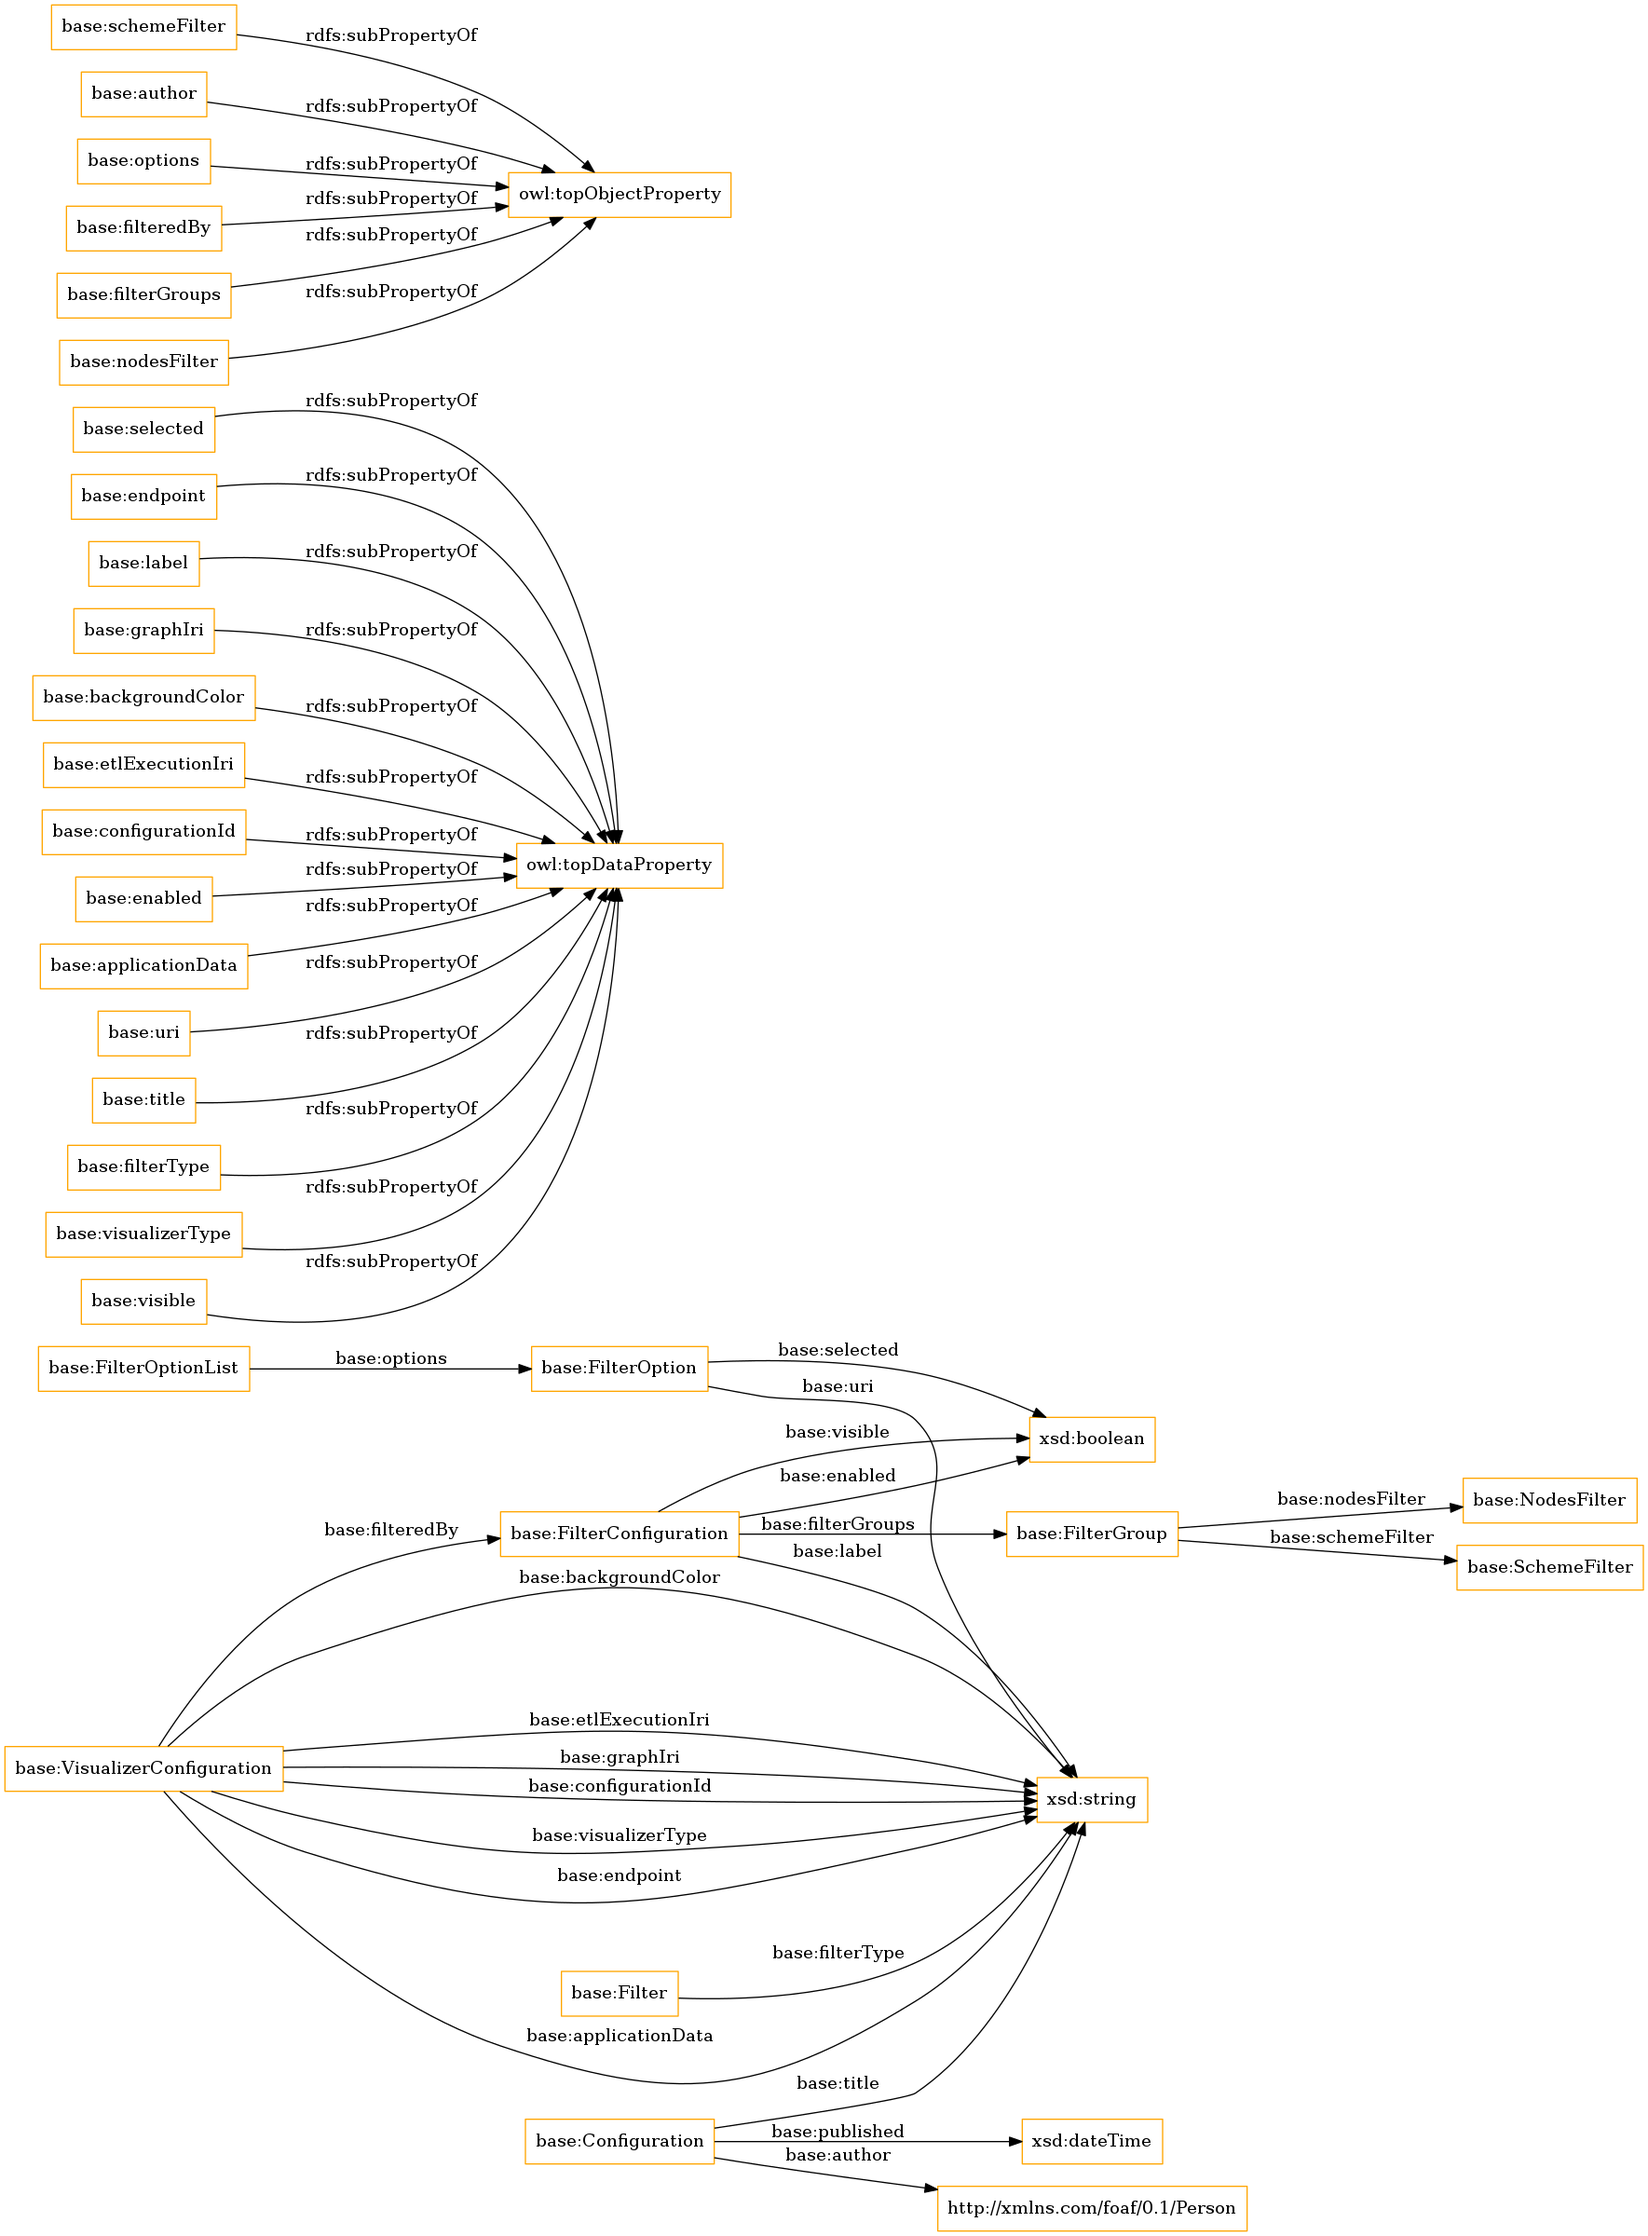
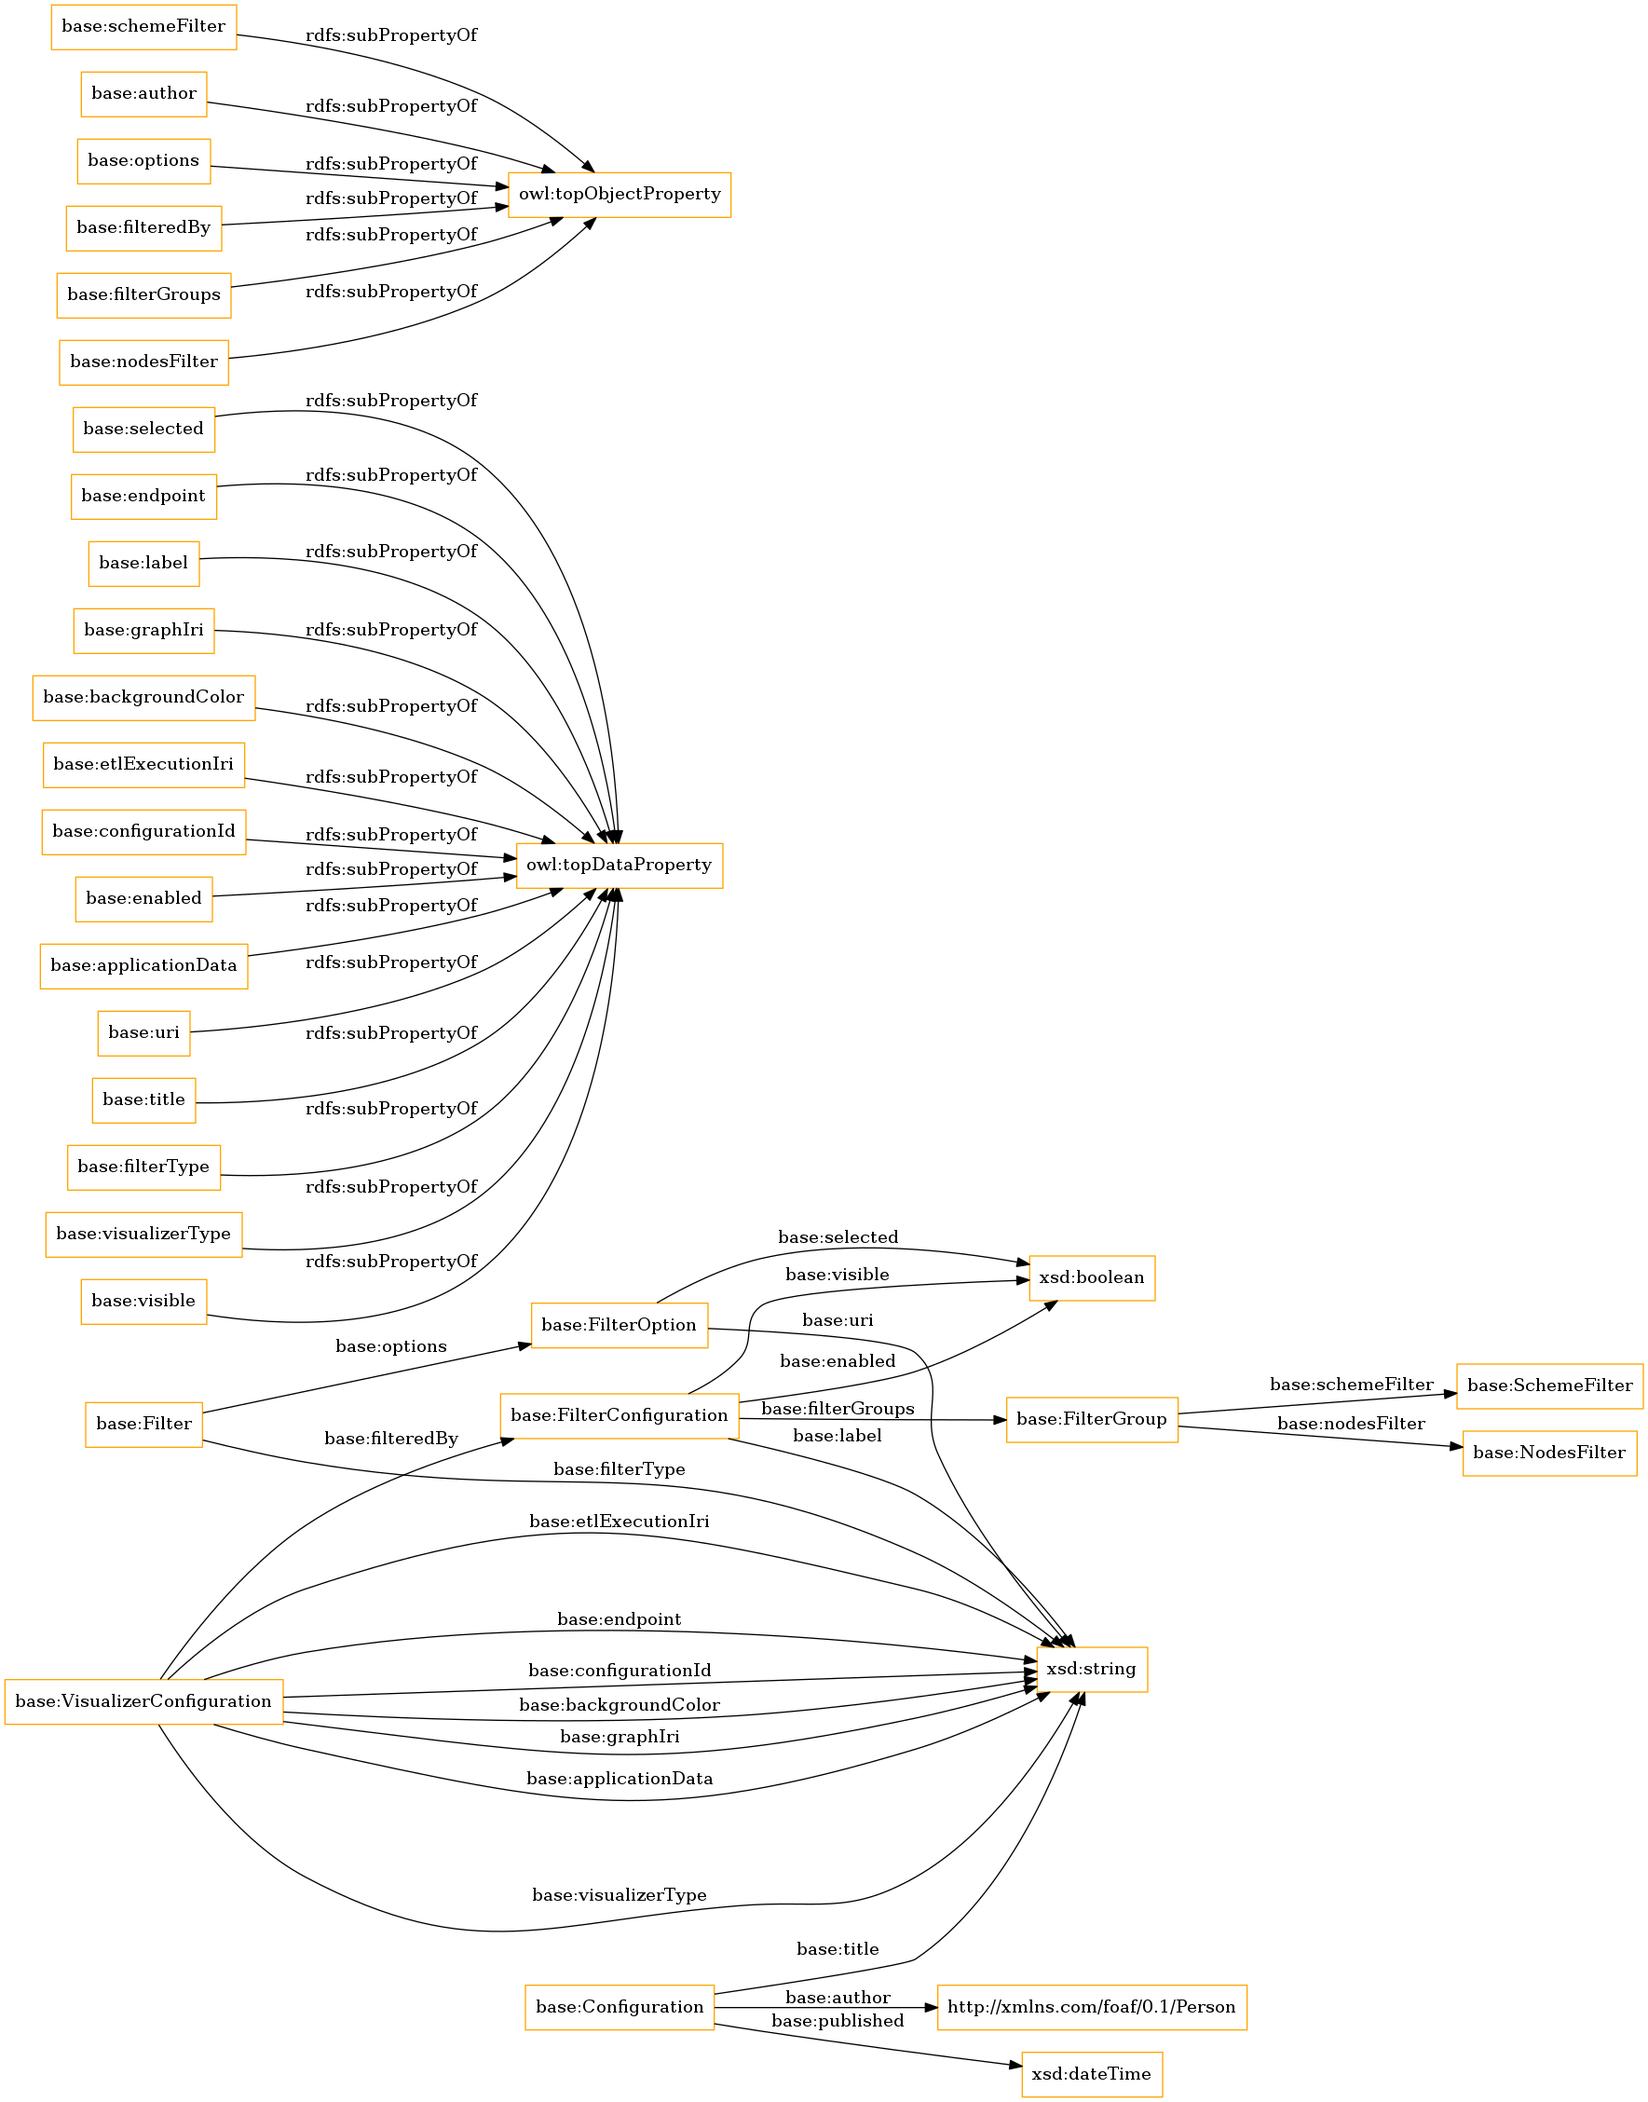
automated change

diff --git a/OnToology/lpapps.owl/evaluation/oops.html b/OnToology/lpapps.owl/evaluation/oops.html
@@ -117,10 +117,24 @@ table.tablesorter thead tr .headerSortDown {
     <div class="panel-heading">
     <h4 class="panel-title">
     <a data-toggle="collapse" href="#collapse0">
-    "P13". "Inverse relationships not explicitly declared"<span style="float: right;">"6" cases detected. <span class="label label-minor">"Minor"</span></span></a>
+    "P08". "Missing annotations"<span style="float: right;">"30" cases detected. <span class="label label-minor">"Minor"</span></span></a>
     </h4>
     </div>
     <div id="collapse0" class="panel-collapse collapse">
+    <div class="panel-body">
+    <p>"This pitfall consists in creating an ontology element and failing to provide human readable annotations attached to it. Consequently, ontology elements lack annotation properties that label them (e.g. rdfs:label, lemon:LexicalEntry, skos:prefLabel or skos:altLabel) or that define them (e.g. rdfs:comment or dc:description). This pitfall is related to the guidelines provided in [5].\t"</p>
+    </div>
+    </div>
+    </div>
+    
+    <div class="panel panel-default">
+    <div class="panel-heading">
+    <h4 class="panel-title">
+    <a data-toggle="collapse" href="#collapse1">
+    "P13". "Inverse relationships not explicitly declared"<span style="float: right;">"6" cases detected. <span class="label label-minor">"Minor"</span></span></a>
+    </h4>
+    </div>
+    <div id="collapse1" class="panel-collapse collapse">
     <div class="panel-body">
     <p>"This pitfall appears when any relationship (except for those that are defined as symmetric properties using owl:SymmetricProperty) does not have an inverse relationship (owl:inverseOf) defined within the ontology.\t"</p>
     </div>
@@ -130,27 +144,13 @@ table.tablesorter thead tr .headerSortDown {
     <div class="panel panel-default">
     <div class="panel-heading">
     <h4 class="panel-title">
-    <a data-toggle="collapse" href="#collapse1">
-    "P10". "Missing disjointness"<span style="float: right;">"1" cases detected. <span class="label label-warning">"Important"</span></span></a>
-    </h4>
-    </div>
-    <div id="collapse1" class="panel-collapse collapse">
-    <div class="panel-body">
-    <p>"The ontology lacks disjoint axioms between classes or between properties that should be defined as disjoint. This pitfall is related with the guidelines provided in [6], [2] and [7].\t"</p>
-    </div>
-    </div>
-    </div>
-    
-    <div class="panel panel-default">
-    <div class="panel-heading">
-    <h4 class="panel-title">
     <a data-toggle="collapse" href="#collapse2">
-    "P08". "Missing annotations"<span style="float: right;">"31" cases detected. <span class="label label-minor">"Minor"</span></span></a>
+    "P10". "Missing disjointness"<span style="float: right;">"1" cases detected. <span class="label label-warning">"Important"</span></span></a>
     </h4>
     </div>
     <div id="collapse2" class="panel-collapse collapse">
     <div class="panel-body">
-    <p>"This pitfall consists in creating an ontology element and failing to provide human readable annotations attached to it. Consequently, ontology elements lack annotation properties that label them (e.g. rdfs:label, lemon:LexicalEntry, skos:prefLabel or skos:altLabel) or that define them (e.g. rdfs:comment or dc:description). This pitfall is related to the guidelines provided in [5].\t"</p>
+    <p>"The ontology lacks disjoint axioms between classes or between properties that should be defined as disjoint. This pitfall is related with the guidelines provided in [6], [2] and [7].\t"</p>
     </div>
     </div>
     </div>

diff --git a/OnToology/lpapps.owl/documentation/sections/crossref-en.html b/OnToology/lpapps.owl/documentation/sections/crossref-en.html
@@ -97,7 +97,8 @@ This section provides details for each class and property defined by [Ontology N
          <dt>is in domain of</dt>
          <dd>
             <a href="#https://w3id.org/def/lpapps#filterType" title="https://w3id.org/def/lpapps#filterType">filter type</a>
-            <sup class="type-dp" title="data property">dp</sup>
+            <sup class="type-dp" title="data property">dp</sup>, <a href="#https://w3id.org/def/lpapps#options" title="https://w3id.org/def/lpapps#options">options</a>
+            <sup class="type-op" title="object property">op</sup>
          </dd>
       </dl>
    </div>
@@ -415,7 +416,7 @@ This section provides details for each class and property defined by [Ontology N
             </dd>
             <dt>has domain</dt>
             <dd>
-               <span class="dotted" title="https://w3id.org/def/lpapps#FilterOptionList">filter option list</span>
+               <a href="#https://w3id.org/def/lpapps#Filter" title="https://w3id.org/def/lpapps#Filter">filter</a>
                <sup class="type-c" title="class">c</sup>
             </dd>
             <dt>has range</dt>
